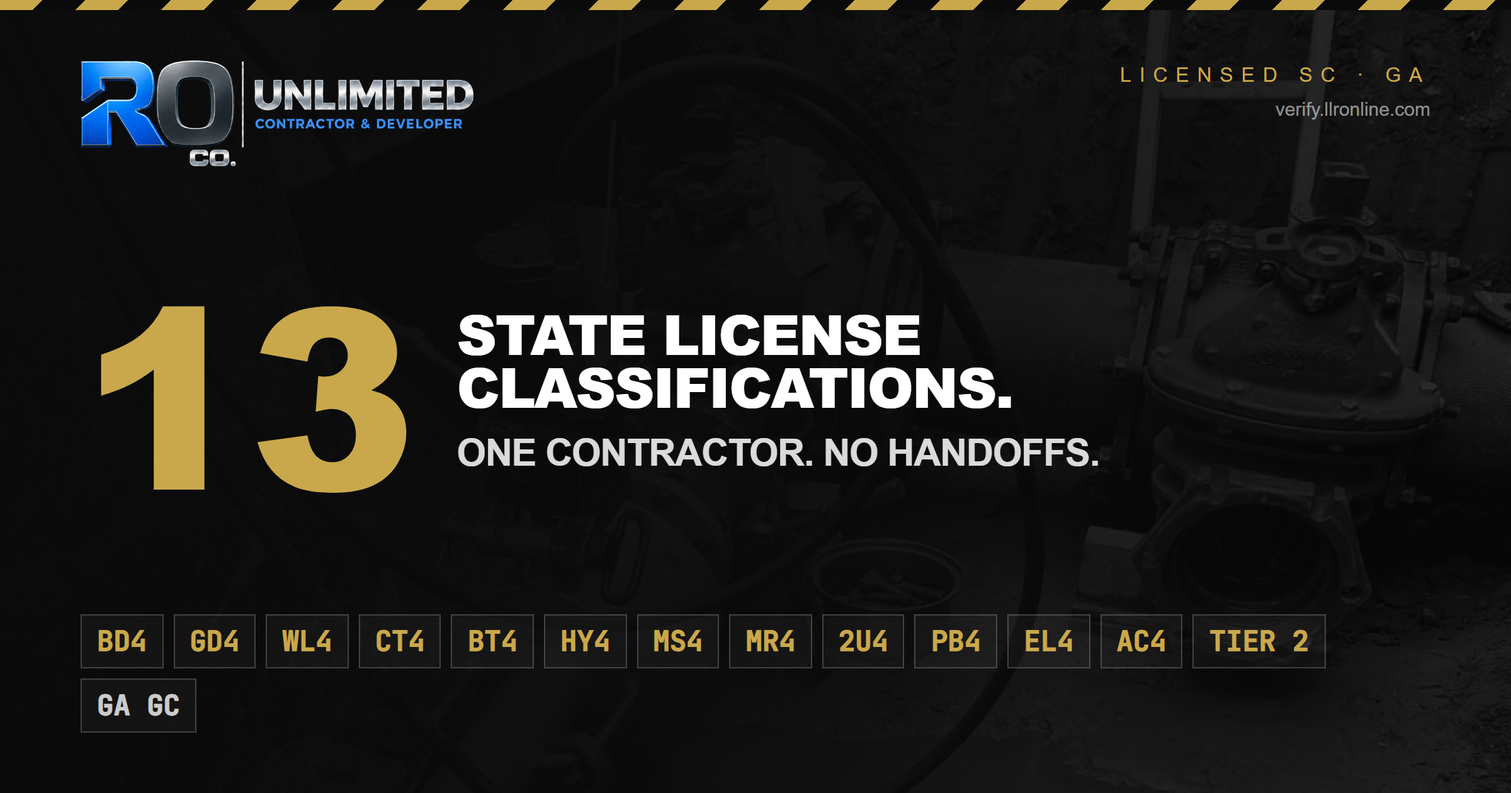
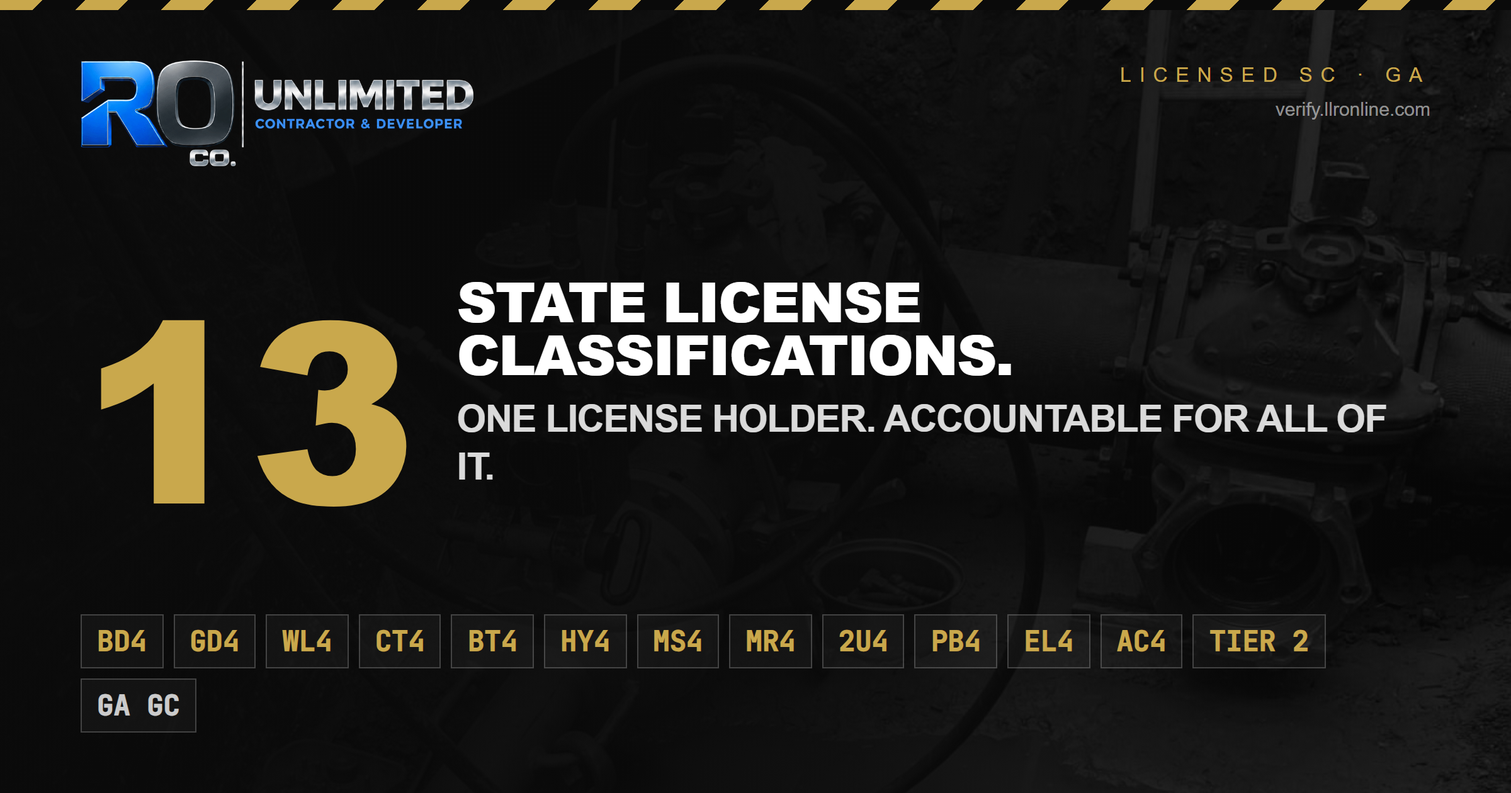
Copy sweep: licenses stay, labor/schedule promises and dollar caps go (owner)
JR: "It leaves no room for me to blame anyone for anything. It drops it all
in my lap. I don't have my own crews — they work on payroll, they're still
subs." And: "take the cap off — for more I just get bond."

Removed everywhere (site, PDFs, share card, OG, AI prompt):
  "self-performed", "our own crews / our iron / in-house", "no handoffs",
  "the schedule is ours", "never waits on a sub", "no stacked markups",
  "one warranty", the "100% Self-Performed" stat, the "Do you sub out the
  utility work? No." FAQ, and every Group 4 / $3,000,000 / $400,000 per-job
  figure (group/limit dropped from the data file so nothing can render it).

Replacement frame: "13 state license classifications. One license holder.
Accountable for all of it." — permits, inspections and the finished job
under RO's numbers, trade crews scaled to the project.

Also: remaining "licensed in all three states" FAQ answers now say South
Carolina and Georgia; capability PDF stats were stale (9 licenses / 3
states) and now read 13 classifications / 2 states / Bonded.

diff --git a/src/app/utilities/page.tsx b/src/app/utilities/page.tsx
@@ -20,7 +20,7 @@ const HERO_STATS = [
   { value: '3', label: 'State Licenses Held' },
   { value: '25+', label: 'Years In The Dirt' },
   { value: '3', label: 'States Served' },
-  { value: '100%', label: 'Self-Performed' },
+  { value: '13', label: 'License Classifications' },
 ];
 
 const TICKER = 'WATER MAIN TAPS \u2022 DUCTILE IRON \u2022 C900 PVC \u2022 SANITARY SEWER \u2022 STORM DRAINAGE \u2022 TIER 2 SEPTIC \u2022 COMMERCIAL GREASE TRAPS \u2022 HOT TAPS \u2022 FIRE LINES \u2022 ';
@@ -44,7 +44,7 @@ const CAPABILITIES = [
 
 const PROCESS = [
   { num: '01', title: 'Locate & Design', desc: 'Utility locates, soil review, and a run plan that matches the civil drawings \u2014 before a bucket touches dirt.' },
-  { num: '02', title: 'Cut & Install', desc: 'Open the trench, bed the pipe, set the structures. Our crews, our iron \u2014 no waiting on a sub.' },
+  { num: '02', title: 'Cut & Install', desc: 'Open the trench, bed the pipe, set the structures \u2014 under our own license, with the inspector on our calendar.' },
   { num: '03', title: 'Test & Inspect', desc: 'Pressure tests, mandrel and vacuum tests, municipal inspections \u2014 documented and passed before anything closes.' },
   { num: '04', title: 'Backfill & Document', desc: 'Every run photographed before backfill. You get proof of what\u2019s under your site \u2014 forever.' },
 ];
@@ -87,10 +87,10 @@ function LocateMarks({ className = '' }: { className?: string }) {
 
 const FAQS = [
   { q: 'Can you tap into a live water main?', a: 'Yes \u2014 that\u2019s exactly what our water & sewer license covers. We perform hot taps on live mains with tapping sleeves and valves, so the surrounding system stays in service while your property gets connected.' },
-  { q: 'Do you sub out the utility work?', a: 'No. Underground utilities are self-performed \u2014 our crews, our equipment, our licenses. That\u2019s the point: when the same contractor controls the sitework and the underground package, the critical path doesn\u2019t slip waiting on someone else\u2019s schedule.' },
+  { q: 'Who is responsible for the utility work?', a: 'RO Unlimited is. Underground utilities are permitted, inspected and warranted under our own license classifications \u2014 the ones most general contractors don\u2019t hold. Crews are scaled to the job; the contractor accountable for the result is RO.' },
   { q: 'What does a Tier 2 septic license cover?', a: 'South Carolina is specific about this. A Tier 1 installer may install gravity-fed residential systems only, and is not authorized to conduct repairs on existing systems at all. Tier 2 adds pumps, grease traps, curtain drains, elevated and mounded systems, and every commercial, large, and community onsite wastewater system \u2014 plus repairs. That is the South Carolina license line commercial work sits on, and most residential installers don\u2019t hold it. Tier 1, 2, and 3 are a South Carolina classification, so on a job across the line we work under that state\u2019s onsite program instead \u2014 we hold licensing in all three.' },
   { q: 'How far will you travel for a job?', a: 'We run out of Easley, so the Greenville area is home ground and most weeks our iron never leaves it. Past that we work the whole tri-state \u2014 upstate South Carolina, western North Carolina, and northeast Georgia \u2014 and we are licensed in South Carolina and Georgia, which matters because the permitting path changes the moment you cross a line. For a job worth mobilizing for, distance is a scheduling conversation, not a no.' },
-  { q: 'Can you handle the full site, not just utilities?', a: 'That\u2019s our model. We clear it, grade it, pipe it, and build on it \u2014 site development, underground utilities, and vertical construction under one contract with one accountable contractor.' },
+  { q: 'Can you handle the full site, not just utilities?', a: 'Yes. Site development, underground utilities, and vertical construction can run under one contract with one license holder accountable for all of it.' },
 ];
 
 /* â”€â”€â”€ Page â”€â”€â”€â”€â”€â”€â”€â”€â”€â”€â”€â”€â”€â”€â”€â”€â”€â”€â”€â”€â”€â”€â”€â”€â”€â”€â”€â”€â”€â”€â”€â”€â”€â”€â”€â”€â”€â”€â”€â”€â”€â”€â”€â”€â”€â”€â”€ */
@@ -301,11 +301,11 @@ export default function UtilitiesPage() {
         <div className="relative z-10 max-w-7xl mx-auto px-4 sm:px-6 lg:px-8">
           <div className="grid grid-cols-1 lg:grid-cols-2 gap-12 items-center">
             <div className="moat-copy">
-              <span className="text-xs font-mono tracking-[0.3em] uppercase mb-4 block" style={{ color: UD.orange }}>Licensed &amp; Self-Performed</span>
+              <span className="text-xs font-mono tracking-[0.3em] uppercase mb-4 block" style={{ color: UD.orange }}>Licensed for the Underground</span>
               <h2 className="text-ro-white font-heading text-3xl sm:text-4xl tracking-tight uppercase mb-6 leading-[0.95]">Most Contractors<br /><span style={{ background: `linear-gradient(135deg, ${UD.orange}, #FF8A50)`, WebkitBackgroundClip: 'text', WebkitTextFillColor: 'transparent', backgroundClip: 'text' }}>Can&apos;t Legally Touch This</span></h2>
               <LocateMarks className="mb-6" />
-              <p className="text-ro-gray-400 leading-relaxed mb-4">Tapping a live water main. Boring under a road that can&apos;t be cut. Running ductile iron beneath a parking lot. This work takes state license classifications most general contractors don&apos;t hold &mdash; so it gets subbed out, and schedules slip.</p>
-              <p className="text-ro-gray-400 leading-relaxed">We hold nine general-contractor classifications plus a mechanical license and a Tier 2 septic installer license &mdash; <a href="/licenses" className="underline underline-offset-4" style={{ color: UD.orange }}>every number is public record</a> &mdash; across South Carolina and Georgia, and we run our own crews and equipment out of Easley. When RO Unlimited does your sitework, the underground package stays in-house &mdash; <span style={{ color: UD.orange }}>one contractor controlling the critical path from first cut to final tap.</span></p>
+              <p className="text-ro-gray-400 leading-relaxed mb-4">Tapping a live water main. Boring under a road that can&apos;t be cut. Running ductile iron beneath a parking lot. This work takes state license classifications most general contractors don&apos;t hold &mdash; so most can&apos;t pull the permit for it.</p>
+              <p className="text-ro-gray-400 leading-relaxed">We hold nine general-contractor classifications plus a mechanical license and a Tier 2 septic installer license &mdash; <a href="/licenses" className="underline underline-offset-4" style={{ color: UD.orange }}>every number is public record</a> &mdash; across South Carolina and Georgia, based in Easley. When RO Unlimited does your sitework, the underground package is permitted and delivered under one license holder &mdash; <span style={{ color: UD.orange }}>one contractor accountable from first cut to final tap.</span></p>
               {/* Utility Division seal — JR's badge, license numbers printed on
                   it (GC CLG.127704 · OSWWI0837 · Mech CLM.119115). Rendered as a
                   credential stamp, not decoration: modest size, no effects. */}
@@ -393,7 +393,7 @@ export default function UtilitiesPage() {
       </section>
 
       {/* â•â•â• FAQ â•â•â• */}
-      <LicenseRail codes={['WL4', 'BT4', '2U4', 'TIER 2', 'GD4']} accent={UD.orange} title="Licensed for the underground" intro="Water and sewer lines, boring under what can't be cut, public power distribution and commercial septic — the classifications that let one contractor keep the whole underground package in-house." />
+      <LicenseRail codes={['WL4', 'BT4', '2U4', 'TIER 2', 'GD4']} accent={UD.orange} title="Licensed for the underground" intro="Water and sewer lines, boring under what can't be cut, public power distribution and commercial septic — the classifications that put the whole underground package under one license holder." />
 
       <section ref={faqRef} className="py-24 sm:py-28 relative border-t border-ro-gray-800">
         <div className="relative z-10 max-w-3xl mx-auto px-4 sm:px-6 lg:px-8">

diff --git a/src/lib/services-data.ts b/src/lib/services-data.ts
@@ -33,7 +33,7 @@ export const SERVICE_CATEGORIES: ServiceCategory[] = [
     title: 'Roofing',
     tagline: 'Roof Repair & Replacement Across the Tri-State',
     icon: 'hard-hat',
-    description: 'From storm damage repairs to full roof replacements, RO handles residential and light commercial roofing with licensed crews and quality materials. Storms don\'t stop at the state line — our crews run out of the Greenville area and work South Carolina, North Carolina, and Georgia. We show up fast, assess honestly, and build roofs that last.',
+    description: 'From storm damage repairs to full roof replacements, RO handles residential and light commercial roofing with licensed, insured work and quality materials. Storms don\'t stop at the state line — we run out of the Greenville area and work South Carolina, North Carolina, and Georgia. We show up fast, assess honestly, and build roofs that last.',
     hero: 'Whether it\'s a missing shingle or a full tear-off, RO\'s roofing crews deliver fast, honest work backed by 25+ years of construction experience. We don\'t upsell — we fix what needs fixing and build what needs building.',
     services: [
       'Roof repair and patching',
@@ -92,7 +92,7 @@ export const SERVICE_CATEGORIES: ServiceCategory[] = [
       { q: 'Do you install new septic systems for new construction?', a: 'Yes. We handle soil testing, system design, permitting, installation, and final inspection — the full scope from start to finish. In South Carolina the permit runs through DHEC; in North Carolina and Georgia it comes from the county health department instead. We\'re licensed in all three, so we file wherever the property sits and you don\'t have to learn the difference.' },
       { q: 'What about real estate septic inspections?', a: 'We do full inspections for home purchases and sales — tank pumping, camera scoping, and drain field assessment. In South Carolina we report to DHEC-compatible standards; across the North Carolina and Georgia lines we match what the county health department and your closing attorney need. Results within 48 hours.' },
       { q: 'Do you offer emergency service?', a: 'Yes — 24/7 for backups, overflows, and total system failures. Same-day arrival in most cases, usually within 2–4 hours of your call.' },
-      { q: 'What areas do you serve for septic work?', a: 'We\'re based in the Greenville area and licensed in all three states, so septic work travels. Greenville, Pickens, Anderson, and Spartanburg counties are the core; from there we run west into northeast Georgia and north into western North Carolina. Call us to confirm coverage for your address.' },
+      { q: 'What areas do you serve for septic work?', a: 'We\'re based in the Greenville area and licensed in South Carolina and Georgia, so septic work travels. Greenville, Pickens, Anderson, and Spartanburg counties are the core; from there we run west into northeast Georgia and north into western North Carolina. Call us to confirm coverage for your address.' },
     ],
     seoKeywords: ['septic pumping Greenville SC', 'septic repair Easley SC', 'septic tank installer Pickens County SC', 'septic inspection real estate', 'drain field repair Anderson SC', '24 hour septic service SC NC GA'],
     heroImage: '/images/services/septic/septic-hero.jpg',
@@ -138,7 +138,7 @@ export const SERVICE_CATEGORIES: ServiceCategory[] = [
     ],
     faq: [
       { q: 'What drives the cost of a panel upgrade?', a: 'The panel itself is the small part. What moves the number is what feeds it and what leaves it — whether the service entrance cable, meter base, and grounding all have to be replaced, whether the utility has to reset the drop, how many circuits need AFCI or GFCI protection to meet current code, and what the branch wiring looks like once the cover comes off. Aluminum branch wiring or knob-and-tube behind the panel is a different job than a straight swap. We look first, then quote.' },
-      { q: 'Are your electricians licensed?', a: 'Yes — in South Carolina, North Carolina, and Georgia. All electrical work is performed by our licensed electricians, and every job is permitted and inspected. The NEC is the baseline in all three states, but each one adopts its own edition and each county issues its own permits, so we pull through whichever authority has jurisdiction over your address.' },
+      { q: 'Are your electricians licensed?', a: 'Yes — RO holds a South Carolina mechanical contractor license with the Electrical classification (CLM.119115) and is licensed in Georgia. Every job is permitted and inspected under it. The NEC is the baseline in all three states, but each one adopts its own edition and each county issues its own permits, so we pull through whichever authority has jurisdiction over your address.' },
       { q: 'Can you install EV chargers at my home?', a: 'Absolutely. We install Tesla Wall Connectors, ChargePoint, and universal Level 2 chargers with dedicated 240V circuits. A 30% federal tax credit applies to installation costs.' },
       { q: 'Do you install solar panels and battery storage?', a: 'Yes. We install complete solar-plus-storage systems including Tesla Powerwall, Enphase, and Generac PWRcell — with full electrical integration from panel to rooftop.' },
       { q: 'What is a smart electrical panel?', a: 'A smart panel like the SPAN Panel replaces your traditional breaker box, giving you app-based control and monitoring of every circuit. It\'s the foundation for whole-home energy management.' },

diff --git a/src/lib/capability-pdf.tsx b/src/lib/capability-pdf.tsx
@@ -1,6 +1,6 @@
 import { Document, Page, Text, View, Image, StyleSheet, renderToBuffer } from '@react-pdf/renderer';
 import '@/lib/pdf-fonts';
-import { LICENSES as STATE_LICENSES, LICENSE_NUMBERS_LINE } from '@/lib/licenses';
+import { LICENSES as STATE_LICENSES, LICENSE_NUMBERS_LINE, LICENSE_CLASSIFICATION_COUNT } from '@/lib/licenses';
 import { COMPANY } from '@/lib/constants';
 
 /**
@@ -53,7 +53,7 @@ const s = StyleSheet.create({
 });
 
 const LICENSES: Array<{ name: string; num?: string }> = STATE_LICENSES.flatMap((l) => [
-  { name: `${l.title}${l.group ? ` — Group ${l.group} (${l.limit})` : ''}`, num: l.number },
+  { name: l.title, num: l.number },
   ...l.classifications.filter((c) => c.code !== 'TIER 2').map((c) => ({ name: `   ${c.name} · ${c.code}` })),
 ]);
 
@@ -95,9 +95,9 @@ function CapabilityDoc() {
         <View style={s.statStrip}>
           {[
             ['25+', 'Years Building'],
-            ['9', 'State Licenses Held'],
-            ['3', 'States Licensed'],
-            ['100%', 'Utilities Self-Performed'],
+            [String(LICENSE_CLASSIFICATION_COUNT), 'SC License Classifications'],
+            ['2', 'States Licensed'],
+            ['Bonded', 'Certificates on Request'],
           ].map(([v, l]) => (
             <View key={l} style={s.stat}>
               <Text style={s.statVal}>{v}</Text>
@@ -110,10 +110,10 @@ function CapabilityDoc() {
         <View style={s.block}>
           <Text style={s.sectionLabel}>Company</Text>
           <Text style={s.body}>
-            {COMPANY.fullName} is a self-performing sitework, underground utility, and construction
-            contractor based in Easley, South Carolina. Our crews and equipment handle the full
-            path from first cut to finished build — land development, underground utilities, and
-            vertical construction — under one contract with one accountable contractor. Licensed in
+            {COMPANY.fullName} is a licensed sitework, underground utility, and construction
+            contractor based in Easley, South Carolina — licensed for the full path from first cut
+            to finished build: land development, underground utilities, and vertical construction,
+            under one contract with one license holder accountable for all of it. Licensed in
             South Carolina and Georgia; the Greenville–Easley market is home ground and we
             mobilize across the Upstate and north Georgia.
           </Text>
@@ -136,7 +136,7 @@ function CapabilityDoc() {
           </View>
 
           <View style={s.col}>
-            <Text style={s.sectionLabel}>Self-Performed Utilities</Text>
+            <Text style={s.sectionLabel}>Underground Utilities</Text>
             {UTILITIES_CAPS.map((t) => (
               <View key={t} style={s.bullet}>
                 <Text style={s.bulletDot}>•</Text>
@@ -158,7 +158,7 @@ function CapabilityDoc() {
           <Text style={s.sectionLabel}>Why GCs & Developers Use RO</Text>
           <View style={s.twoCol}>
             <View style={s.col}>
-              <View style={s.bullet}><Text style={s.bulletDot}>•</Text><Text style={s.bulletText}>Sitework and the underground package under one contractor — the critical path never waits on a sub</Text></View>
+              <View style={s.bullet}><Text style={s.bulletDot}>•</Text><Text style={s.bulletText}>Sitework and the underground package under one license holder — one contractor accountable for permits, inspections and the finished job</Text></View>
               <View style={s.bullet}><Text style={s.bulletDot}>•</Text><Text style={s.bulletText}>Every utility run photographed before backfill — permanent as-built documentation</Text></View>
             </View>
             <View style={s.col}>

diff --git a/src/lib/commercial-data.ts b/src/lib/commercial-data.ts
@@ -35,7 +35,7 @@ export const COMMERCIAL_SERVICE_DETAILS: Record<string, ServiceDetail> = {
   'Commercial Building Development': {
     id: 'commercial-building-dev',
     title: 'Commercial Building Development',
-    overview: 'From vacant land to occupied building — RO manages the full development lifecycle. We coordinate site selection advisory, feasibility analysis, zoning research, architectural design-build, and ground-up construction under one contract. No middlemen, no coordination gaps, no finger-pointing.',
+    overview: 'From vacant land to occupied building — RO manages the full development lifecycle. We coordinate site selection advisory, feasibility analysis, zoning research, architectural design-build, and ground-up construction under one contract, with one license holder accountable.',
     includes: [
       'Site selection and feasibility advisory across GA, SC, and NC',
       'Zoning research, variance applications, and municipal compliance',
@@ -51,7 +51,7 @@ export const COMMERCIAL_SERVICE_DETAILS: Record<string, ServiceDetail> = {
   'Steel & Mixed-Material Construction': {
     id: 'steel-mixed-material',
     title: 'Steel & Mixed-Material Construction',
-    overview: 'Steel is the backbone of commercial construction — and RO self-performs structural steel work rather than subbing it out. We build with pre-engineered metal buildings, structural steel frames, and hybrid steel-wood-concrete systems. The result is faster erection timelines, clear-span interiors, superior fire resistance, and predictable costs.',
+    overview: 'Steel is the backbone of commercial construction, and RO builds with it as a core capability. We build with pre-engineered metal buildings, structural steel frames, and hybrid steel-wood-concrete systems. The result is faster erection timelines, clear-span interiors, superior fire resistance, and predictable costs.',
     includes: [
       'Pre-engineered metal building (PEMB) erection and finishing',
       'Structural steel framing for multi-story commercial builds',
@@ -83,7 +83,7 @@ export const COMMERCIAL_SERVICE_DETAILS: Record<string, ServiceDetail> = {
   'Problem Solving for Complex Sites': {
     id: 'complex-sites',
     title: 'Problem Solving for Complex Sites',
-    overview: 'Not every site is flat, clear, and ready to build. RO specializes in the projects other contractors walk away from — difficult terrain, limited access, wetlands, unusual soil conditions, existing structure demolition, and environmental restrictions. With an in-house land grading division and 25+ years of tri-state experience, we solve site problems before they become schedule killers.',
+    overview: 'Not every site is flat, clear, and ready to build. RO specializes in the projects other contractors walk away from — difficult terrain, limited access, wetlands, unusual soil conditions, existing structure demolition, and environmental restrictions. With our own grading license classification and 25+ years of tri-state experience, we solve site problems before they become schedule killers.',
     includes: [
       'Difficult terrain grading — slopes, rock, poor drainage',
       'Wetland mitigation and environmental compliance coordination',
@@ -167,7 +167,7 @@ export const PROCESS_DETAILS: Record<string, ProcessDetail> = {
   'Ground-Up Construction': {
     title: 'Ground-Up Construction',
     bullets: [
-      'Site grading and foundation work by RO\'s in-house grading division',
+      'Site grading and foundation work under RO\'s own grading license',
       'Structural erection — steel, concrete, wood framing, or hybrid',
       'MEP rough-in coordination with vetted trade partners',
       'Weekly progress updates with photos and milestone tracking',

diff --git a/src/lib/utilities-data.ts b/src/lib/utilities-data.ts
@@ -31,7 +31,7 @@ export const UTILITY_SUB_SERVICES: UtilitySubService[] = [
     title: 'Water Main Taps & Hot Taps',
     tagline: 'Connecting to a Live Main Without Shutting Anybody Off',
     heroDescription:
-      'A water main tap is the connection where your building’s water branches off the public main in the street. It can be made with the main shut down — a dry tap — or while the main is still full and under pressure, which is called a wet tap or hot tap. RO Unlimited self-performs both, so an occupied building, a shopping center, or a plant next door never loses water while you get your service.',
+      'A water main tap is the connection where your building’s water branches off the public main in the street. It can be made with the main shut down — a dry tap — or while the main is still full and under pressure, which is called a wet tap or hot tap. RO Unlimited is licensed for both, so an occupied building, a shopping center, or a plant next door never loses water while you get your service.',
     heroImage: `${IMG}/jr-hot-tap.jpg`,
     cardImage: `${IMG}/jr-tapping-sleeve.jpg`,
     galleryImages: [
@@ -61,7 +61,7 @@ export const UTILITY_SUB_SERVICES: UtilitySubService[] = [
       {
         heading: 'Why It Matters Here',
         content:
-          'Our crews run out of Easley, and everything within reach of that shop sits in the Piedmont — red clay that drains slowly and is prone to shrink and swell, the same from the Greenville suburbs out to the Georgia and North Carolina lines. A trench wall that stood up fine on a dry Tuesday can slough after Thursday’s rain, so shoring is a live safety decision on every tap pit, not a box to check. Closer to the Blue Ridge foothills, granite and gneiss bedrock sit near the surface, which turns a routine trench into hammer work. What changes most from job to job is who owns the main. Greenville Water, Easley Combined Utilities, Anderson Regional, Seneca Light & Water, and the small districts on either side of the state line each run their own application, approved-materials list, inspector, and fee schedule — and crossing into North Carolina or Georgia changes the permitting path, not just the letterhead. We are licensed in all three states, so the first move on any tap is establishing whose rulebook you are actually building to. Knowing that before design is worth more than any trick in the field.',
+          'We run out of Easley, and everything within reach of that shop sits in the Piedmont — red clay that drains slowly and is prone to shrink and swell, the same from the Greenville suburbs out to the Georgia and North Carolina lines. A trench wall that stood up fine on a dry Tuesday can slough after Thursday’s rain, so shoring is a live safety decision on every tap pit, not a box to check. Closer to the Blue Ridge foothills, granite and gneiss bedrock sit near the surface, which turns a routine trench into hammer work. What changes most from job to job is who owns the main. Greenville Water, Easley Combined Utilities, Anderson Regional, Seneca Light & Water, and the small districts on either side of the state line each run their own application, approved-materials list, inspector, and fee schedule — and crossing into North Carolina or Georgia changes the permitting path, not just the letterhead. We are licensed in South Carolina and Georgia, so the first move on any tap is establishing whose rulebook you are actually building to. Knowing that before design is worth more than any trick in the field.',
       },
     ],
     warningSigns: [

diff --git a/src/app/licenses/page.tsx b/src/app/licenses/page.tsx
@@ -15,8 +15,8 @@ export default function LicensesPage() {
 
   const faq = [
     { q: 'What license classifications does RO Unlimited hold?', a: `${total} South Carolina classifications: General Contractor CLG.127704 (Building, Grading, Water & Sewer Lines, Concrete, Boring & Tunneling, Highway, Masonry, Marine, Public Electrical Utility), Mechanical Contractor CLM.119115 (Plumbing, Electrical, Air Conditioning) and Tier 2 Onsite Wastewater Installer OSWWI0837, plus a Georgia general contractor license.` },
-    { q: 'What does a Group 4 South Carolina contractor license mean?', a: 'Group 4 is the per-job limit tier set by the SC Contractor\u2019s Licensing Board: up to $3,000,000 per job on the general contractor license and up to $400,000 per job on the mechanical license (limits raised by H.4115 in 2023).' },
-    { q: 'Does RO Unlimited subcontract plumbing, electrical and HVAC?', a: 'No. Plumbing, electrical and air conditioning are self-performed under RO\u2019s own mechanical contractor license (CLM.119115), alongside the site, utility and building work under CLG.127704.' },
+    { q: 'Is RO Unlimited bonded and insured?', a: 'Yes. General liability, auto and workers\u2019 compensation certificates and bonding documentation are furnished with any bid or prequalification package \u2014 sized to the job at hand.' },
+    { q: 'Who is responsible for the plumbing, electrical and HVAC on an RO job?', a: 'RO Unlimited is. That work is permitted, inspected and warranted under RO\u2019s own mechanical contractor license (CLM.119115), alongside the site, utility and building work under CLG.127704. Trade crews are scaled to each job; the license holder accountable for the result is RO.' },
     { q: 'How do I verify the licenses?', a: 'Search the license numbers on the SC LLR Licensee Lookup at verify.llronline.com; the Georgia license can be checked through the Georgia Secretary of State verification site.' },
   ];
   const faqJsonLd = { '@context': 'https://schema.org', '@type': 'FAQPage', mainEntity: faq.map((f) => ({ '@type': 'Question', name: f.q, acceptedAnswer: { '@type': 'Answer', text: f.a } })) };
@@ -35,8 +35,8 @@ export default function LicensesPage() {
           </h1>
           <div className="w-20 h-[2px] bg-gradient-to-r from-transparent via-ro-gold to-transparent mx-auto mt-7" />
           <p className="text-ro-gray-300 text-lg sm:text-xl leading-relaxed max-w-3xl mx-auto mt-7">
-            {total} state license classifications under one contractor &mdash; the dirt, the pipe, the power,
-            the building and the septic, self-performed under our own licenses. Every number below is
+            {total} state license classifications under one license holder &mdash; the dirt, the pipe, the power,
+            the building and the septic, permitted and delivered under our own numbers. Every number below is
             public record; verify it on the state site before you call.
           </p>
           <div className="flex flex-wrap justify-center gap-3 mt-9">
@@ -145,7 +145,7 @@ export default function LicensesPage() {
           </div>
 
           <p className="text-ro-gray-600 text-xs text-center font-mono tracking-wide pt-4">
-            Classification display &middot; Refer to issued licenses for terms and limitations &middot; Group limits per SC LLR (H.4115, 2023)
+            Classification display &middot; Refer to issued licenses for terms and limitations
           </p>
         </div>
       </section>

diff --git a/src/lib/repairs-data.ts b/src/lib/repairs-data.ts
@@ -40,7 +40,7 @@ export const REPAIRS_SUB_SERVICES: RepairsSubService[] = [
       },
       {
         heading: 'Why It Matters Here',
-        content: 'Humidity across the Carolinas and north Georgia makes drywall mud dry slower than it does in a dry climate — push through with too-thin coats and you get shrinkage and visible patches months later. Our crews run out of Easley, so most drywall calls are a short drive around Greenville and we can schedule around real dry time instead of rushing coats. Multiple thin coats, each one fully cured before the next, is what keeps a patch flat while the house moves through seasonal humidity swings. Bad patches announce themselves the first hot summer, when the air changes and the compound pulls tight.',
+        content: 'Humidity across the Carolinas and north Georgia makes drywall mud dry slower than it does in a dry climate — push through with too-thin coats and you get shrinkage and visible patches months later. We run out of Easley, so most drywall calls are a short drive around Greenville and we can schedule around real dry time instead of rushing coats. Multiple thin coats, each one fully cured before the next, is what keeps a patch flat while the house moves through seasonal humidity swings. Bad patches announce themselves the first hot summer, when the air changes and the compound pulls tight.',
       },
     ],
     warningSigns: [
@@ -284,7 +284,7 @@ export const REPAIRS_SUB_SERVICES: RepairsSubService[] = [
       { tip: 'Keep gutters clear above the deck', detail: 'Overflow gutters dump water onto the deck, accelerating wear. Maintaining roof gutters protects the deck below.' },
     ],
     processSteps: [
-      { num: '01', title: 'Design & Permit', description: 'For new builds, we design to your space and needs, calculate load requirements, and pull the required building permits. In South Carolina, any deck attached to the house needs a permit; North Carolina and Georgia set their own thresholds county by county. We are licensed in all three states and deal with whichever building department the job falls under.' },
+      { num: '01', title: 'Design & Permit', description: 'For new builds, we design to your space and needs, calculate load requirements, and pull the required building permits. In South Carolina, any deck attached to the house needs a permit; North Carolina and Georgia set their own thresholds county by county. We are licensed in South Carolina and Georgia and deal with whichever building department the job falls under.' },
       { num: '02', title: 'Footings & Framing', description: 'Footings dug to frost depth and inspected before pour. Posts set, beams sized to span, joists installed with proper hangers, ledger lag-bolted to house with flashing to prevent water infiltration.' },
       { num: '03', title: 'Decking Installation', description: 'Boards installed with proper gapping for expansion (especially composite), hidden fasteners or stainless screws to prevent rust streaks. Rim board finished cleanly. Stairs framed with proper rise/run code.' },
       { num: '04', title: 'Railings & Finish', description: 'Railings installed with code-compliant height (36–42") and baluster spacing (less than 4" gap). Posts notched into framing for strength, not just surface-mounted. Stain or sealer applied to wood decks.' },

diff --git a/src/components/sections/LicenseBand.tsx b/src/components/sections/LicenseBand.tsx
@@ -9,14 +9,15 @@ import { LICENSES, LLR_LOOKUP_URL, STATES_LINE } from '@/lib/licenses';
 
 /**
  * Homepage "license plate" band — the proof behind the pitch. Most
- * contractors hold one or two classifications; RO holds thirteen, and that is
- * exactly why "one contractor, no handoffs" is true. Engraved-plate tiles
- * reveal left to right; every number links to the state lookup.
+ * contractors hold one or two classifications; RO holds thirteen, so one
+ * license holder can be accountable for the whole job. Credentials only —
+ * no promises about who swings the shovel or who owns a delay (owner, 2026-10).
+ * Engraved-plate tiles reveal left to right; every number links to the lookup.
  */
 const WHY = [
-  { k: 'No stacked markups', v: 'Underground, concrete and the mechanicals are self-performed — no subcontractor layer billing on top of ours.' },
-  { k: 'One permit holder', v: 'One license on the permits, one insurance certificate, one warranty. One name to call.' },
-  { k: 'The schedule is ours', v: 'The building never waits on another company. The same crews run the critical path from first cut to final tap.' },
+  { k: 'Licensed for all of it', v: 'Building, grading, water and sewer, boring, highway, concrete, masonry, marine, public power, plumbing, electrical, HVAC and septic — permits pulled under RO\u2019s own numbers.' },
+  { k: 'One contractor accountable', v: 'One license holder on the permits and the inspections, one insurance certificate, one point of responsibility for the finished job.' },
+  { k: 'Verified, not claimed', v: 'Every number is public record on the SC LLR lookup. Bonded and insured for the job at hand — certificates on request.' },
 ];
 
 export default function LicenseBand() {
@@ -55,11 +56,12 @@ export default function LicenseBand() {
               </span>
             </div>
             <h2 className="text-ro-white font-heading text-3xl sm:text-4xl uppercase tracking-tight leading-[0.95] mt-6">
-              One contractor.<br /><span className="gradient-text-gold">No handoffs.</span>
+              One license holder.<br /><span className="gradient-text-gold">Accountable for all of it.</span>
             </h2>
             <p className="text-ro-gray-300 text-base sm:text-lg leading-relaxed mt-5 max-w-xl">
-              Most contractors hold one or two. RO Unlimited self-performs the building, the dirt, the pipe,
-              the power, the concrete, the mechanicals and the septic &mdash; under its own licenses, with its own crews.
+              Most contractors hold one or two. RO Unlimited is licensed for the building, the dirt, the pipe,
+              the power, the concrete, the mechanicals and the septic &mdash; one license holder accountable for the
+              whole job, with trade crews scaled to the project.
             </p>
             <ul className="mt-7 space-y-4">
               {WHY.map((w) => (

diff --git a/src/lib/electrical-data.ts b/src/lib/electrical-data.ts
@@ -112,7 +112,7 @@ export const ELECTRICAL_SUB_SERVICES: ElectricalSubService[] = [
       },
       {
         heading: 'Scope, Access & Schedule',
-        content: 'A rewire is scoped off access, not square footage alone. A house with a walkable attic and a full crawlspace lets us fish most runs without opening walls. A two-story on a slab with finished ceilings means cutting, patching, and painting — and wall repair is a real line item on a rewire, not a rounding error. Circuit count drives it too: every new circuit lands under current AFCI and GFCI rules, and each high-draw appliance gets its own home run. Plaster and lath, balloon framing, blown-in insulation, and knob-and-tube spliced inside walls with no junction boxes all slow the pull down, and you don\'t know which of those you have until we open the first bay. Plan on 3–7 days for the wiring itself, plus drywall and paint time behind it — we sequence our in-house drywall team so the two phases don\'t sit waiting on each other. The rough-in inspection has to pass before anything gets closed up, so that inspector visit sits in the middle of your schedule, not at the end — and that inspector works for whatever county or municipality your house sits in. We\'re licensed in South Carolina, North Carolina, and Georgia and permit the job locally either way, but the office we\'re dealing with sets the turnaround, so we build their calendar into yours from the start.',
+        content: 'A rewire is scoped off access, not square footage alone. A house with a walkable attic and a full crawlspace lets us fish most runs without opening walls. A two-story on a slab with finished ceilings means cutting, patching, and painting — and wall repair is a real line item on a rewire, not a rounding error. Circuit count drives it too: every new circuit lands under current AFCI and GFCI rules, and each high-draw appliance gets its own home run. Plaster and lath, balloon framing, blown-in insulation, and knob-and-tube spliced inside walls with no junction boxes all slow the pull down, and you don\'t know which of those you have until we open the first bay. Plan on 3–7 days for the wiring itself, plus drywall and paint time behind it — we sequence the drywall crew so the two phases don\'t sit waiting on each other. The rough-in inspection has to pass before anything gets closed up, so that inspector visit sits in the middle of your schedule, not at the end — and that inspector works for whatever county or municipality your house sits in. We\'re licensed in South Carolina and Georgia and permit the job locally either way, but the office we\'re dealing with sets the turnaround, so we build their calendar into yours from the start.',
       },
       {
         heading: 'Why It Matters Here',

diff --git a/src/app/commercial/page.tsx b/src/app/commercial/page.tsx
@@ -30,7 +30,7 @@ const PROCESS_STEPS = [
 
 const DIFFERENTIATORS = [
   { icon: Shield, title: 'Single Point of Accountability', desc: 'One company from land grading through final walkthrough. No finger-pointing between subs.' },
-  { icon: Layers, title: 'Ground-Up Capability', desc: 'We grade the dirt, pour the foundation, raise the steel, and finish the interior. All in-house.' },
+  { icon: Layers, title: 'Ground-Up Capability', desc: 'We grade the dirt, pour the foundation, raise the steel, and finish the interior. All under one license holder.' },
   { icon: Clock, title: '25+ Years of Problem Solving', desc: 'Complex sites, tight timelines, impossible specs — we\'ve built through all of it.' },
   { icon: MapPin, title: 'Tri-State Knowledge', desc: 'Georgia, South Carolina, North Carolina — soil conditions, permitting, inspectors, and suppliers across all three states.' },
 ];
@@ -628,7 +628,7 @@ export default function CommercialPage() {
       </section>
 
       {/* ═══ SECTION 9 — THE CLOSE ═══ */}
-      <LicenseRail codes={['BD4', 'CT4', 'MS4', 'GD4', 'PB4', 'EL4', 'AC4']} title="A GC that self-performs the MEP" intro="Building, concrete, masonry and the site — plus plumbing, electrical and HVAC under our own mechanical license. On a commercial job that means fewer subs, fewer handoffs and a schedule we control." />
+      <LicenseRail codes={['BD4', 'CT4', 'MS4', 'GD4', 'PB4', 'EL4', 'AC4']} title="A GC licensed for the MEP too" intro="Building, concrete, masonry and the site — plus plumbing, electrical and HVAC under our own mechanical license. One license holder accountable for the permits and the finished building, with trade crews scaled to the job." />
 
       <section ref={ctaRef} className="relative min-h-[70vh] flex items-center justify-center overflow-hidden">
         <div className="absolute inset-0 bg-gradient-to-b from-ro-black via-[#111] to-ro-black" />

diff --git a/src/lib/constants.ts b/src/lib/constants.ts
@@ -21,7 +21,7 @@ export const COMPANY = {
 export const DIVISIONS = [
   {
     id: 'commercial', name: 'Commercial Division', shortName: 'Commercial', href: '/commercial',
-    description: 'Ground-up commercial buildings \u2014 offices, retail, warehouses and shells, built complete. We develop the site and run the utilities ourselves, so the building never waits on another contractor.',
+    description: 'Ground-up commercial buildings \u2014 offices, retail, warehouses and shells, built complete. We\u2019re licensed for the site and the utilities too, so one contractor is accountable from the dirt up.',
     services: ['Ground-Up Commercial Builds','QSR & Franchise Buildouts','Retail & Strip Centers','Steel & Mixed-Material Construction','Light Multi-Family Development','Development Consulting'],
     icon: 'building', targetAudience: 'Commercial developers, project managers, general contractors',
     featured: true,
@@ -29,7 +29,7 @@ export const DIVISIONS = [
   
   {
     id: 'grading', name: 'Site Development & Grading', shortName: 'Site Development', href: '/grading',
-    description: 'From raw land to pad-ready \u2014 clearing, mass grading, stormwater, and complete commercial site development, self-performed on our own iron.',
+    description: 'From raw land to pad-ready \u2014 clearing, mass grading, stormwater, and complete commercial site development under our own grading license.',
     services: ['Clearing & Mass Grading','Building Pads & Site Balancing','Stormwater Management','Erosion & Sediment Control','Complete Site Preparation','Foundation & Drainage Work'],
     icon: 'mountain', targetAudience: 'Commercial developers, land owners, project managers',
     featured: true,

diff --git a/src/lib/septic-data.ts b/src/lib/septic-data.ts
@@ -339,7 +339,7 @@ export const SEPTIC_SUB_SERVICES: SepticSubService[] = [
       },
       {
         heading: 'Why It Matters Here',
-        content: 'Piedmont clay is marginal for drain fields even when the design is perfect, and it\'s what our crews dig in on nearly every job — the same red clay whether the address is in Pickens County, across the Georgia line, or up in the Carolina foothills. Once it\'s compacted by construction traffic, landscaping equipment, or vehicles, clay loses most of its absorption capacity. We see fields written off as "failed" when the real problem was a clogged effluent filter upstream or a cracked D-box. Fixing the actual cause is a service call and a part. Replacing the field is a permit, a soil retest, and heavy equipment across your yard for a week — so it\'s worth finding out which one you have.',
+        content: 'Piedmont clay is marginal for drain fields even when the design is perfect, and it\'s what we dig in on nearly every job — the same red clay whether the address is in Pickens County, across the Georgia line, or up in the Carolina foothills. Once it\'s compacted by construction traffic, landscaping equipment, or vehicles, clay loses most of its absorption capacity. We see fields written off as "failed" when the real problem was a clogged effluent filter upstream or a cracked D-box. Fixing the actual cause is a service call and a part. Replacing the field is a permit, a soil retest, and heavy equipment across your yard for a week — so it\'s worth finding out which one you have.',
       },
     ],
     warningSigns: [
